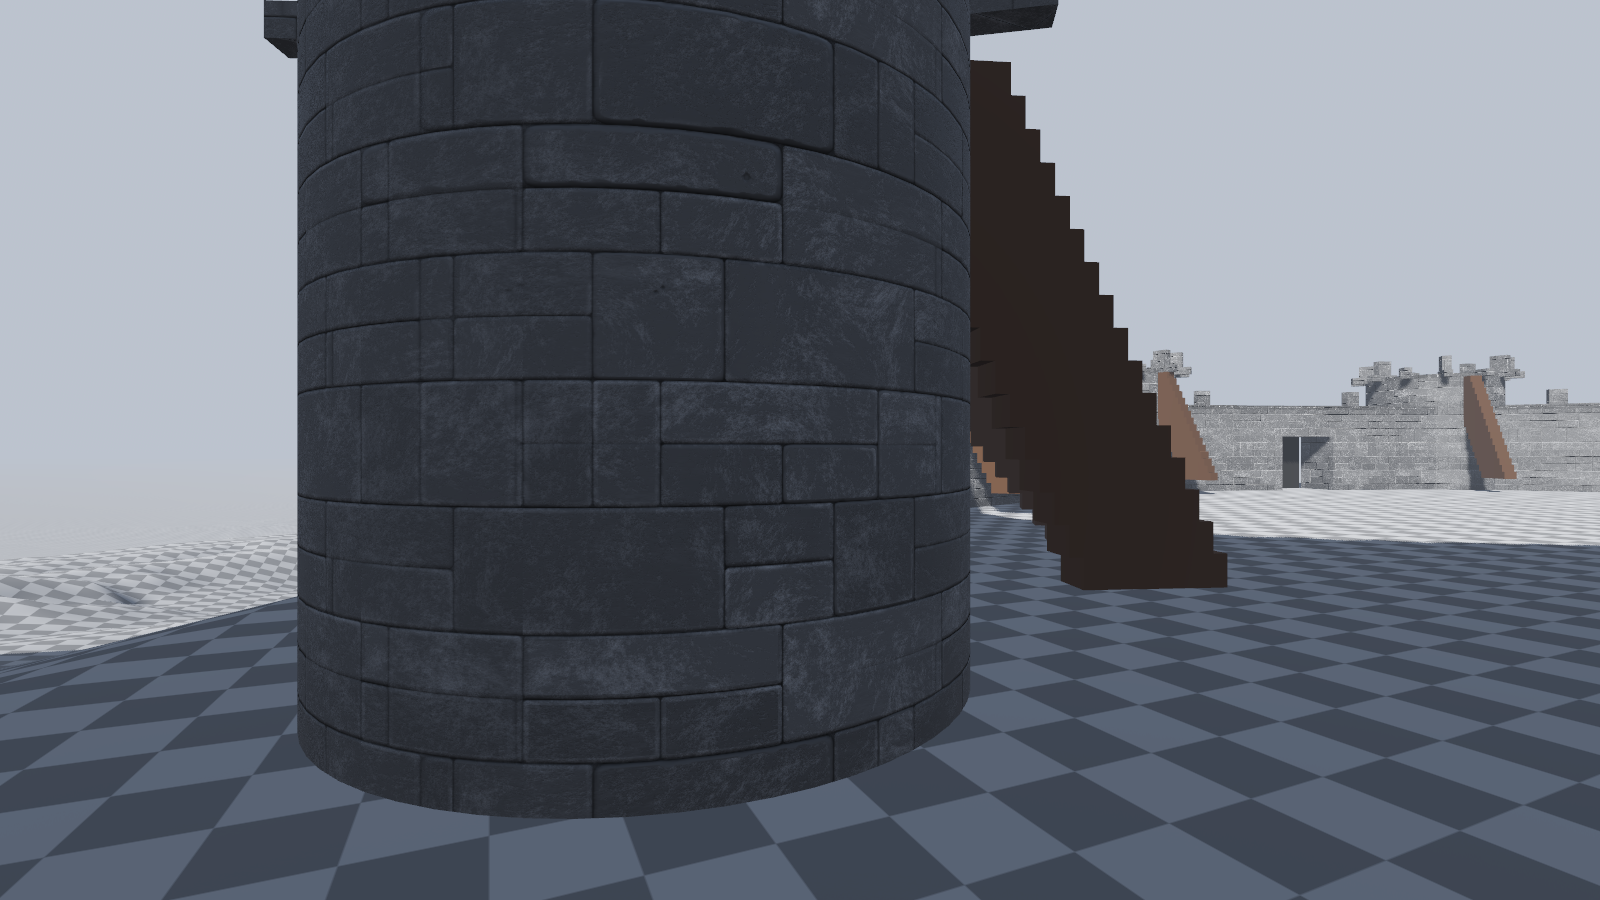
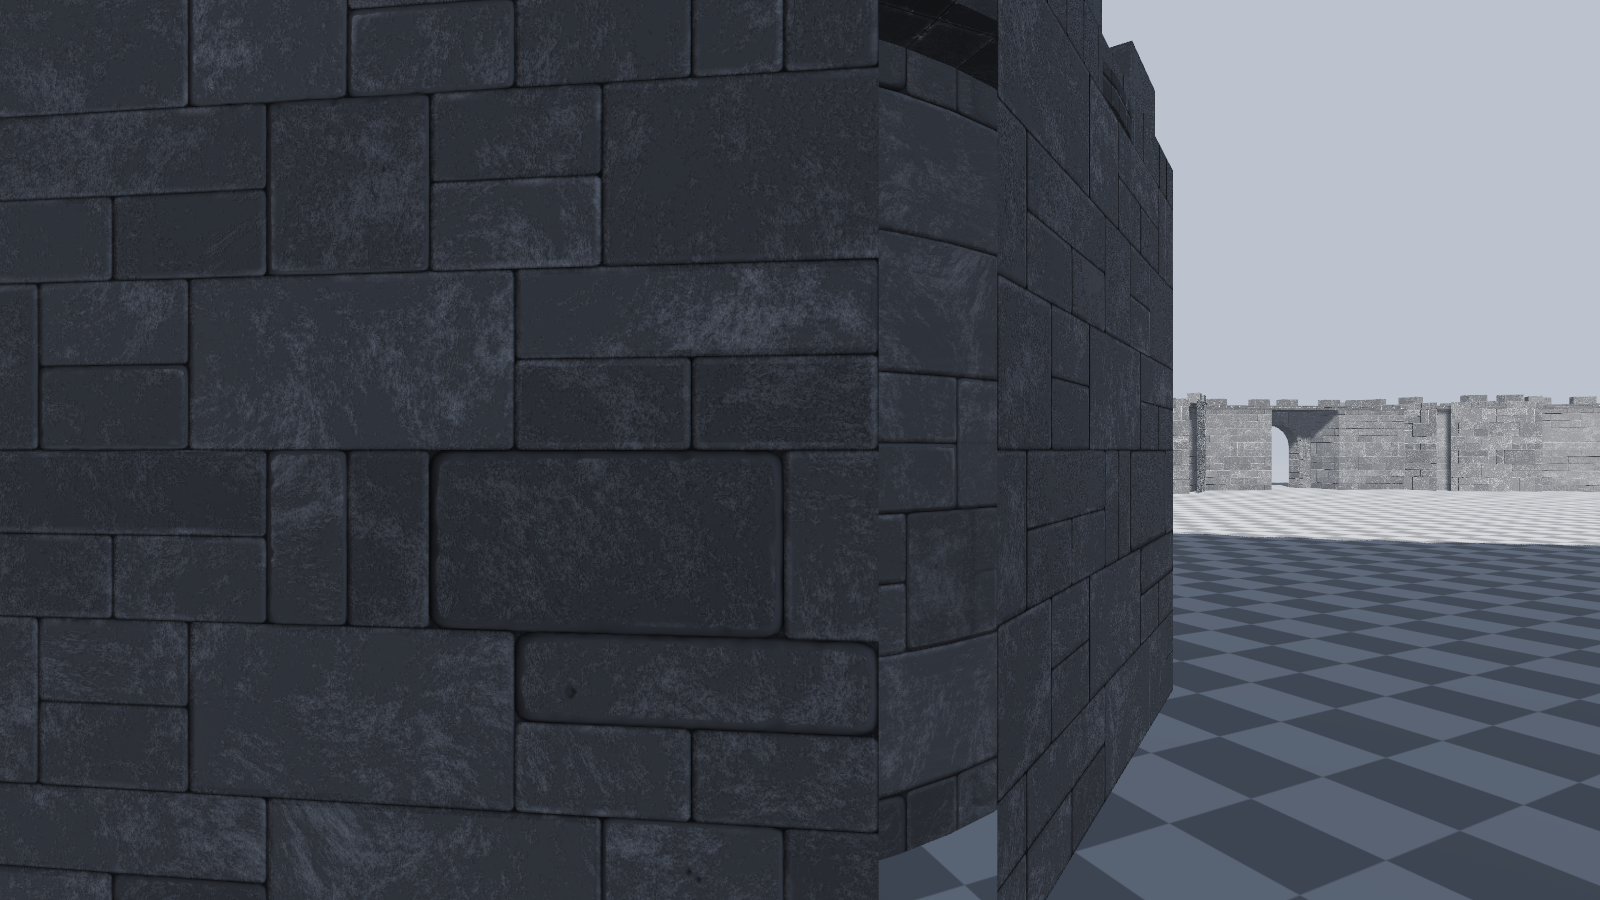
fix: use kit pieces properly (battlements, stairs)
After analysing the kit's own example scene + a wall/tower/stair assembly test: walls now Courtine_Wall + kit Wall_Battlements parapet (+ brick core for thickness, floor walk); crenellations are the kit battlement piece (even, no overhang) not hand-built boxes; stairs are the kit Stairs piece seated on the ground (not floating box ramps); towers are hexagonal drums of 6 Courtine panels + Wall_Battlements ring, entered from the wall-walk (removed the tower stairs/door). Documented assembly findings in loafbrr_kit_audit.md.

diff --git a/docs/loafbrr_kit_audit.md b/docs/loafbrr_kit_audit.md
@@ -76,3 +76,22 @@ at runtime via `GLTFDocument` to sidestep a headless-import quirk; brick materia
 - **D.** Gate from the arc/tunnel + portcullis pieces; bridge causeway.
 - **E.** Stairs_Wall flights, one per curtain span, hugging the wall.
 - **F.** Keep the horseshoe terrain enclosure.
+
+## Assembly findings (validated on a piece test)
+
+How the pieces actually snap (from reading the author's example scene + a wall/
+tower/stair assembly test):
+
+- **Wall** = `Courtine_Wall` (6 m panel) with `Wall_Battlements` (6 m) on the top
+  edge as the crenellated parapet + a floor for the walk. Do NOT hand-build
+  merlons from boxes — the kit battlement piece aligns 1:1 with the panel.
+- **Battlements** are the `Wall_Battlements` / `Wall_Battlements_Corner_*` pieces,
+  sat on the wall/tower top edge. They are 6 m, so they only look right on a 6 m
+  grid (a hexagon of radius 6 has chord 6 → they fit a hex tower with no overhang).
+- **Stairs** = the kit `Stairs` piece (6×6×6, solid steps) placed seated on the
+  ground in a grid cell, climbing 6 m to the wall-walk. Not a floating box ramp.
+- **Round tower**: 4× `*_Corner_Round` do NOT close into a drum by simple
+  90° rotation about the shared centre; a hexagon of 6 `Courtine_Wall` panels
+  (radius 6) is the reliable round-ish tower here.
+- **Tower access** is from the wall-walk (platform at walk height) — no internal
+  tower stair.
